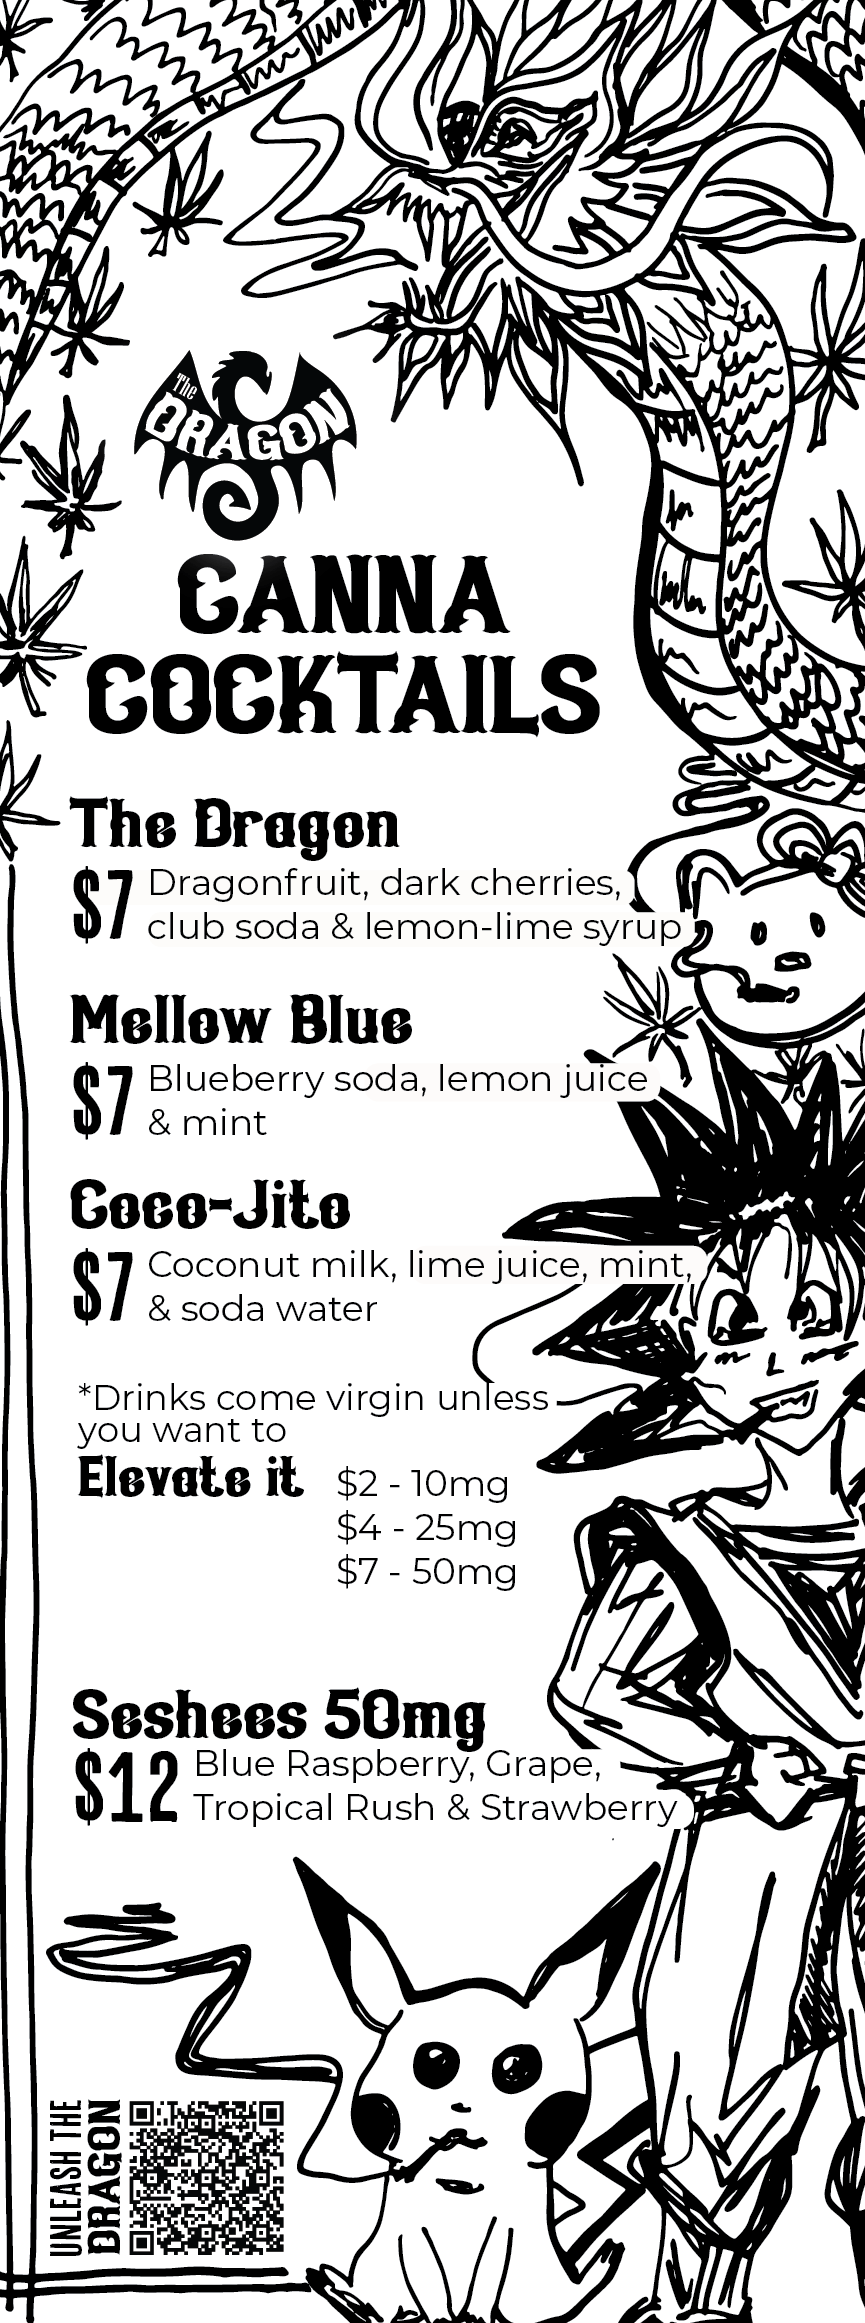
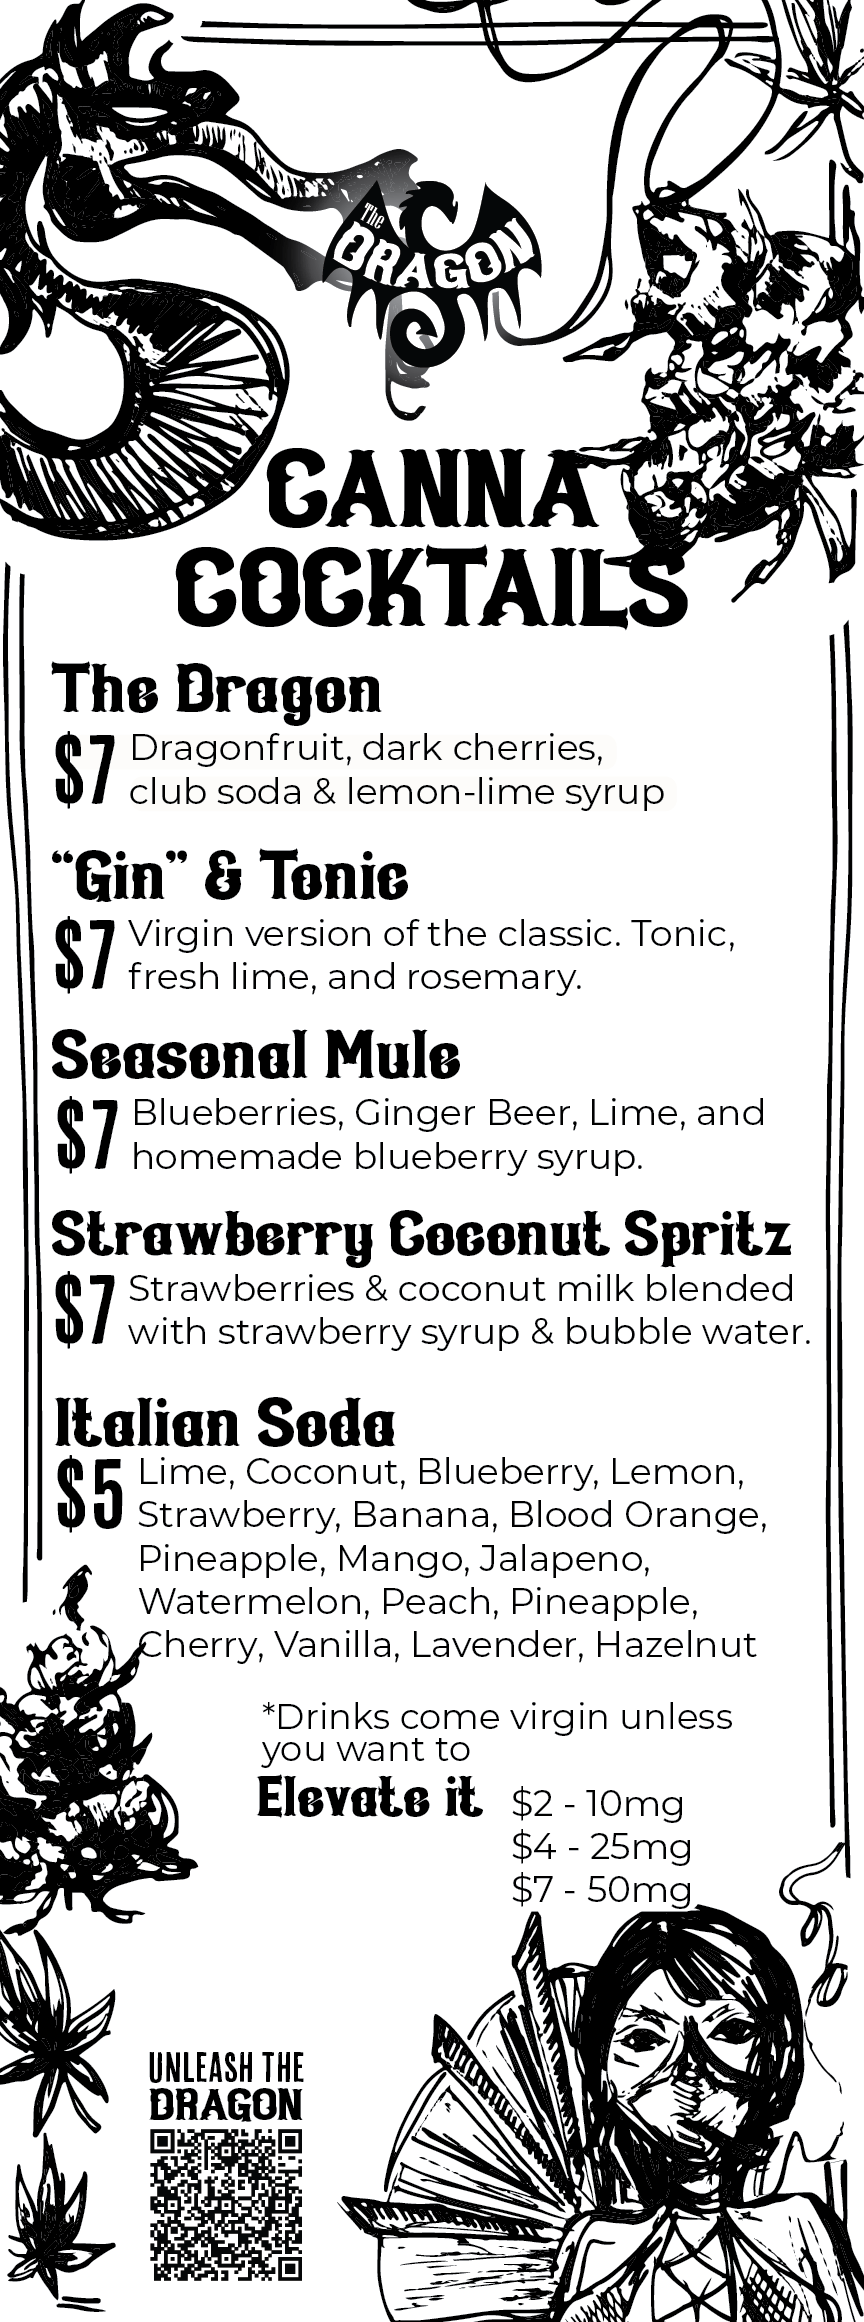
Updated Menu to spring menu

diff --git a/client/src/components/DrinkMenu.js b/client/src/components/DrinkMenu.js
@@ -1,16 +1,15 @@
-import React from 'react'
-import DabL from '../assets/DabL.png'
-import DabR from '../assets/DabR.png'
-import MenuL from '../assets/MenuL.png'
-import MenuR from '../assets/MenuR.png'
-import FoodMenu from '../assets/FoodMenu.png'
+import React from "react";
+import DabL from "../assets/DabL.png";
+import DabR from "../assets/DabR.png";
+import MenuL from "../assets/MenuL.png";
+import MenuR from "../assets/MenuR.png";
+import FoodMenu from "../assets/FoodMenu.png";
 
 const DrinkMenu = () => {
-
   return (
     <div className="container mx-auto p-4">
-              {/* Food Menu Heading and Images */}
-              <h2 className="text-4xl text-white text-center mb-4">Food Menu</h2>
+      {/* Food Menu Heading and Images */}
+      <h2 className="text-4xl text-white text-center mb-4">Food Menu</h2>
       <div className="items-center">
         <div className="max-w-md mx-auto">
           <img src={FoodMenu} alt="Drink Menu Left" className="w-full" />
@@ -39,7 +38,7 @@ const DrinkMenu = () => {
         </div>
       </div>
     </div>
-  )
-}
+  );
+};
 
-export default DrinkMenu
+export default DrinkMenu;
